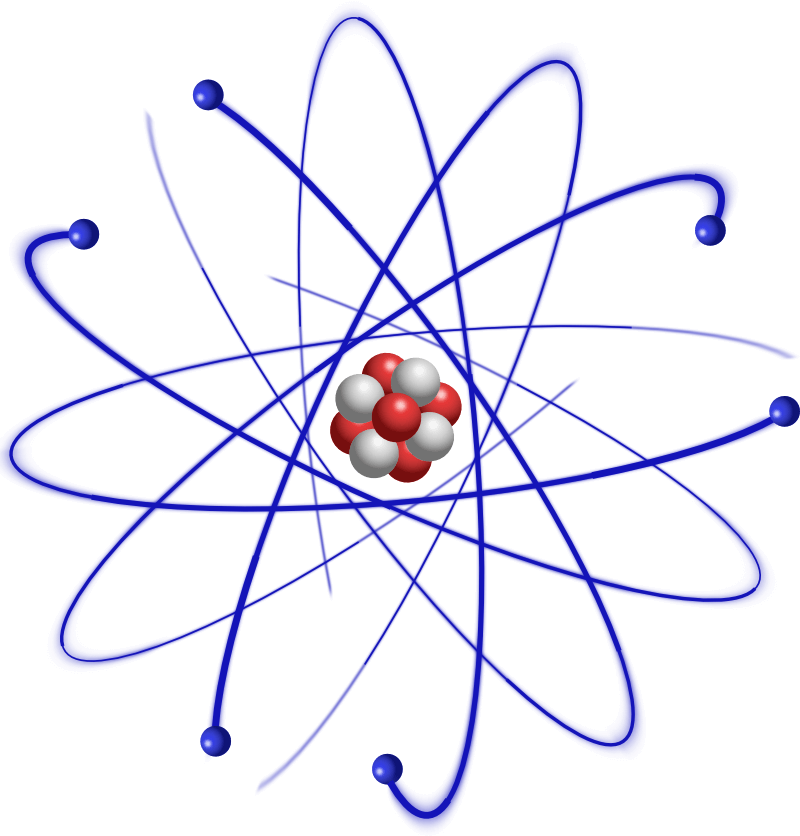
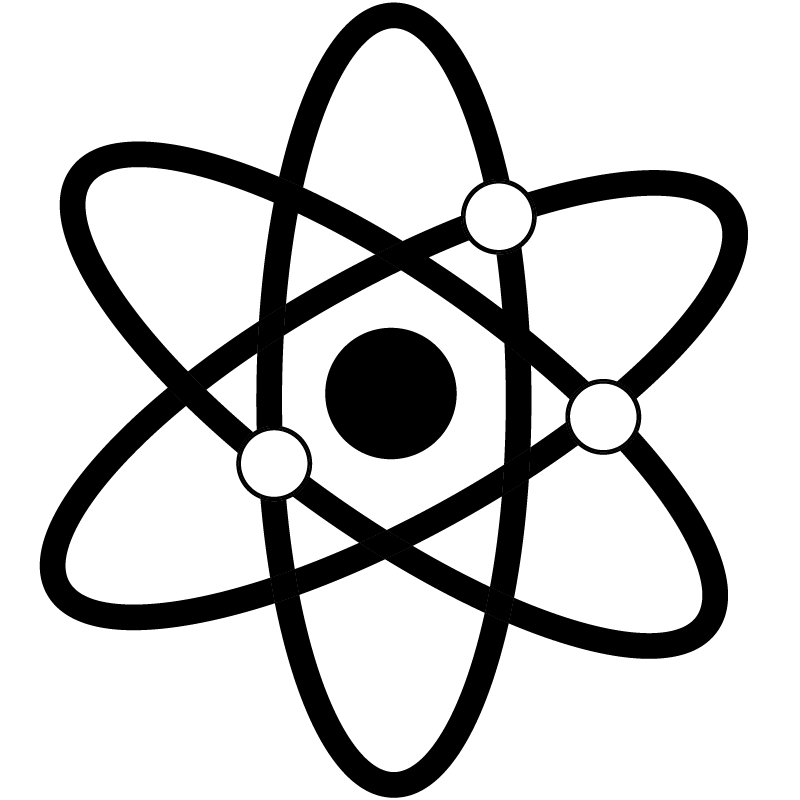
styling for new images, new images in place

diff --git a/client/bio.es6.js b/client/bio.es6.js
@@ -36,25 +36,25 @@ Template.bioTemplate.helpers({
 //     }
 // );
 
-SeoCollection.update(
-    {
-        route_name: 'aboutMe'
-    },
-    {
-        $set: {
-            route_name: 'aboutMe',
-            title: 'About - Manuel Schoebel',
-            meta: {
-                'description': 'Manuel Schoebel is an experienced web developer and startup founder. He develops but also consults startups about internet topics.'
-            },
-            og: {
-                'title': 'About - Manuel Schoebel',
-                'image': 'http://manuel-schoebel.com/images/authors/manuel-schoebel.jpg'
-            }
-        }
-    },
-    {
-        upsert: true
-    }
-);
+// SeoCollection.update(
+//     {
+//         route_name: 'aboutMe'
+//     },
+//     {
+//         $set: {
+//             route_name: 'aboutMe',
+//             title: 'About - Manuel Schoebel',
+//             meta: {
+//                 'description': 'Manuel Schoebel is an experienced web developer and startup founder. He develops but also consults startups about internet topics.'
+//             },
+//             og: {
+//                 'title': 'About - Manuel Schoebel',
+//                 'image': 'http://manuel-schoebel.com/images/authors/manuel-schoebel.jpg'
+//             }
+//         }
+//     },
+//     {
+//         upsert: true
+//     }
+// );
 

diff --git a/billDiffenderffer.css b/billDiffenderffer.css
@@ -18,31 +18,27 @@ body{
 #header{
     margin: 0 auto;
     display: inline-block;
-    background: url("/atom.png") no-repeat top center fixed;
-    background-size: cover;
-    -webkit-background-size: cover;
-    -moz-background-size: cover;
-    -o-background-size: cover;
+    background: url("/atom.png") no-repeat 50% center fixed;
+    background-size: 85%;
+    -webkit-background-size: 85%;
+    -moz-background-size: 85%;
+    -o-background-size: 85%;
+    width: 100%;
     min-height: 100%;
     height: auto;
     margin: 0 auto;
-    padding: 0;
+    padding: 5% 0 0 0;
     color: black;
     text-align: center;
     font-size: 50px;
 }
 
-#sun{
+#earth{
     width: 100%;
     height: 100%;
     margin: 0 auto;
     display: inline-block;
     padding: 0;
-    -webkit-transform: rotate(180deg);
-    -moz-transform: rotate(180deg);
-    -ms-transform: rotate(180deg);
-    -o-transform: rotate(180deg);
-    transform: rotate(180deg);
 }
 
 #content{
@@ -118,7 +114,7 @@ h1, h2, h3, h4{
 }
 
 #photoBottom{
-    margin-top: 5%;
+    margin-top: 12%;
 }
 
 

diff --git a/client/home.html b/client/home.html
@@ -1,9 +1,9 @@
 <template name="home">
-  <div class='col-sm-6 col-sm-push-3' id='header'>
+  <div class='col-sm-6' id='header'>
     <h1 id='bill_diff_title'>Bill Diffenderffer</h1>
   </div>
-  <div class="col-sm-6" id='sun'>
-    <img id='sun' src="/comet.jpg">
+  <div class="col-sm-6" id='earth'>
+    <img id='earth' src="/earth_black.png">
   </div>
   <div class='col-sm-6' id='content'>
     <a href="{{pathFor 'books'}}"><img id='photoBottom' src="/spirit.jpg"></a>

diff --git a/client/home.es6.js b/client/home.es6.js
@@ -28,7 +28,7 @@ Template.home.onCreated(function(){
     console.log('zoomAmountBottom', zoomAmountBottom)
 
     $('#header').css('opacity', zoomAmountTop)
-    $('#sun').css('opacity', zoomMiddle)
+    $('#earth').css('opacity', zoomMiddle)
     $('#photoBottom').css('opacity', zoomAmountBottom)
 
   })
